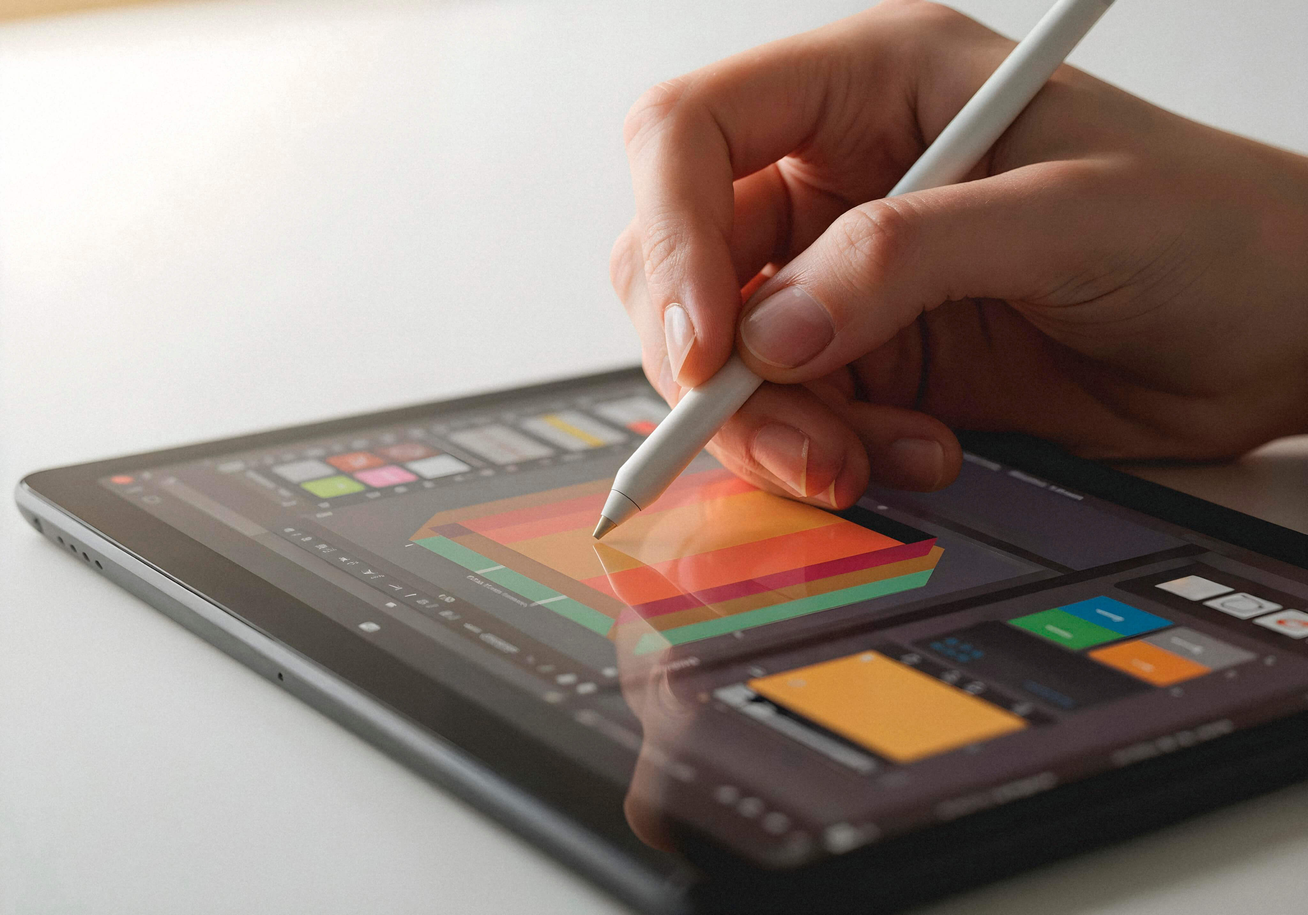
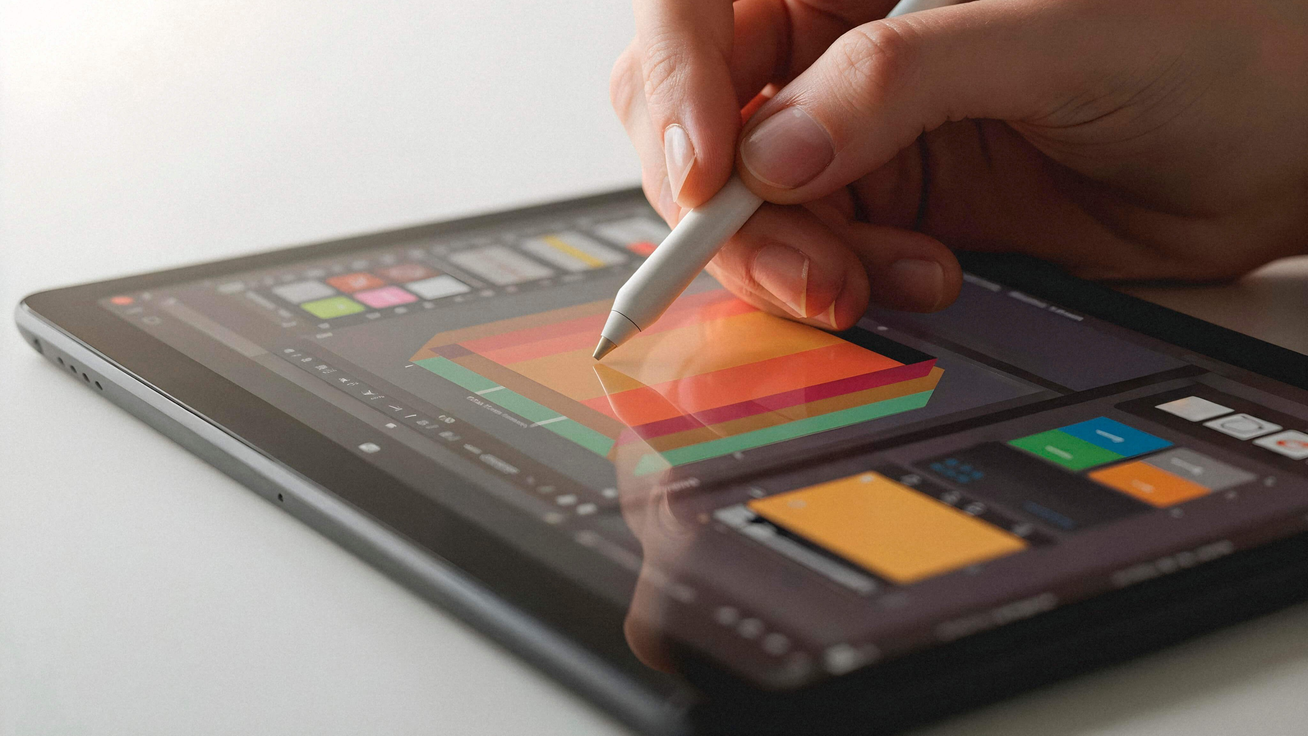
Criação do formulário e uns ajustes no design

diff --git a/DrawLabMain/src/app/componentes/contato/contato.scss b/DrawLabMain/src/app/componentes/contato/contato.scss
@@ -1,0 +1,93 @@
+@use '../../../styles.scss' as styles;
+
+.Contato-container {
+  @include styles.ConfigWidthCards();
+  display: flex;
+  flex-direction: column;
+  gap: 24px;
+
+  .Contato-div-texto {
+    h2 {
+      @include styles.styleH2titulos();
+    }
+
+    p {
+      @include styles.stylePsubtitulos();
+    }
+  }
+
+  .Contato-div-formulario {
+    background-color: styles.$Logo-color-Azul;
+    color: white;
+    padding: 4em 20px;
+    border-radius: 20px;
+    display: flex;
+    flex-direction: column;
+    align-items: center;
+    justify-content: center;
+
+    form {
+      width: 100%;
+      max-width: 500px;
+      padding: 10px;
+      display: flex;
+      flex-direction: column;
+      gap: 12px;
+
+      div {
+        display: flex;
+        flex-direction: column;
+        gap: 4px;
+      }
+
+      label {
+        border-left: 1px solid styles.$Logo-color-Vermelho;
+        padding: 2px 10px;
+        display: flex;
+        gap: 2px;
+        strong {
+          color: styles.$Logo-color-Vermelho;
+          font-size: 10px;
+        }
+      }
+
+      input,
+      select {
+        border: none;
+        padding: 10px;
+        border-radius: 4px;
+        margin-top: 5px;
+        outline: none;
+      }
+
+      button {
+        padding: 10px;
+        border: none;
+        border-radius: 10px;
+        background-color: styles.$Logo-color-Vermelho;
+        color: white;
+        transition: background-color 0.3s ease;
+
+        &:hover {
+          background-color: darken(styles.$Logo-color-Vermelho, 10%);
+          cursor: pointer;
+        }
+      }
+
+      .Inputs-Nome-Sobrenome {
+        display: flex;
+        flex-direction: row;
+        justify-content: space-between;
+        div {
+          width: 100%;
+        }
+      }
+    }
+  }
+
+  @media (max-width: #{styles.$breakpoint-mobile}) {
+    .Inputs-Nome-Sobrenome {
+      flex-direction: column;
+    }
+  }
+}

diff --git a/DrawLabMain/src/app/componentes/contato/contato.html b/DrawLabMain/src/app/componentes/contato/contato.html
@@ -1,1 +1,44 @@
-<p>contato works!</p>
+<div id="Contato" class="Contato-container">
+  <div class="Contato-div-texto">
+    <h2>Contato</h2>
+    <p>ahsdlajhdaljdhlasjdhlasjhdaljsdhlash</p>
+  </div>
+
+  <div class="Contato-div-formulario">
+    <form>
+      <div class="Inputs-Nome-Sobrenome">
+        <div>
+          <label for="Nome">Nome <strong>*</strong></label>
+          <input placeholder="Primeiro Nome" required type="text" name="Nome" id="Nome" />
+        </div>
+        <div>
+          <label for="Sobrenome">Sobrenome <strong>*</strong></label>
+          <input placeholder="Sobrenome" required type="text" name="Sobrenome" id="Sobrenome" />
+        </div>
+      </div>
+
+      <div class="Input-email">
+        <label for="Email">Email <strong>*</strong></label>
+        <input placeholder="Melhor Email" required type="email" name="Email" id="Email" />
+      </div>
+
+      <div class="Input-Number">
+        <label for="Number">Telefone <strong>*</strong></label>
+        <input placeholder="Telefone para contato" required type="text" name="Number" id="Number" />
+      </div>
+
+      <div class="Input-selectCurso">
+        <label for="Curso">Curso de Interesse <strong>*</strong></label>
+        <select id="Curso" name="Curso" required>
+          <option value="" disabled selected>-- Selecione --</option>
+          <option value="item1">Iniciante Criativo</option>
+          <option value="item2">Intermediário em Ação</option>
+          <option value="item3">Avançado Profissional</option>
+          <option value="item4">Workshops & Masterclasses</option>
+        </select>
+      </div>
+
+      <button type="submit">Enviar</button>
+    </form>
+  </div>
+</div>

diff --git a/DrawLabMain/src/app/componentes/programas-card/programas-card.scss b/DrawLabMain/src/app/componentes/programas-card/programas-card.scss
@@ -3,17 +3,17 @@
 .programa-card-base {
   gap: 10px;
   max-width: 300px;
-  height: 350px;
+  height: 300px;
   background-size: cover;
   background-position: center;
   display: flex;
   flex-direction: column;
-  justify-content: space-between;
+  border-bottom: 2px solid styles.$Logo-color-Vermelho;
   color: styles.$Logo-color-Azul;
 
   div {
     width: 100%;
-    height: 200px;
+    height: 300px;
     background-size: cover;
     background-repeat: no-repeat;
     background-position: center;
@@ -28,18 +28,20 @@
     font-weight: 200;
   }
   button {
-    background-color: styles.$Logo-color-Vermelho;
-    padding: 3px 6px;
-    border-radius: 10px;
     border: none;
+    padding: 6px;
+    background-color: styles.$background-color;
     transition: background-color 0.3s ease;
 
     &:hover {
       background-color: darken(styles.$Logo-color-Vermelho, 10%);
       cursor: pointer;
+      a{
+        color: styles.$background-color;
+      }
     }
     a {
-      color: white;
+      color: styles.$Logo-color-Vermelho;
       text-decoration: none;
       font-size: 14px;
     }

diff --git a/DrawLabMain/src/app/componentes/card/card.html b/DrawLabMain/src/app/componentes/card/card.html
@@ -1,10 +1,10 @@
 <div class="cardInicial">
   <div>
-    <h2>Transforme sua criatividade em arte digital.</h2>
-    <p>
-      No DrawLab, você aprende do zero ao avançado com técnicas modernas de ilustração digital.
-      Desenvolva seu traço, domine as ferramentas e conquiste o seu espaço no mundo da arte.
+    <h2>Transforme sua criatividade em <strong>ARTE DIGITAL</strong>.</h2>
+    <p class="text-destaque">
+      Do traço ao digital: domine as técnicas para criar artes que impressionam.
     </p>
-    <button>Liberar meu acesso</button>
+    <p class="text-subtitle">Seja você iniciante ou já experiente, nossos programas foram criados para guiar cada passo da sua jornada no design digital. Você vai aprender desde os fundamentos do desenho até técnicas avançadas de ilustração, criando artes que se destacam e podem abrir portas no mercado criativo.</p>
+    <button>Desbloquear meu acesso</button>
   </div>
 </div>

diff --git a/DrawLabMain/src/app/componentes/card/card.scss b/DrawLabMain/src/app/componentes/card/card.scss
@@ -14,13 +14,30 @@
       font-size: 52px;
       width: 100%;
       max-width: 700px;
+      strong{
+        background: linear-gradient(90deg, #0F222D, #BA3521, #F55139); /* ajuste as cores */
+        -webkit-background-clip: text;
+        -webkit-text-fill-color: transparent;
+        background-clip: text; /* fallback */
+        color: transparent;
+      }
     }
-    p {
-      font-size: 16px;
+
+    .text-destaque {
+      color: styles.$Logo-color-Vermelho;
+      font-size: 14px;
       width: 100%;
       max-width: 700px;
-      margin: 20px 0;
+      margin-bottom: 20px
     }
+
+    .text-subtitle{
+      font-size: 16px;
+      width: 100%;
+      max-width: 800px;
+      margin-bottom: 20px
+    }
+
     button {
       @include styles.styleBotao();
       background-color: styles.$Logo-color-Vermelho;
